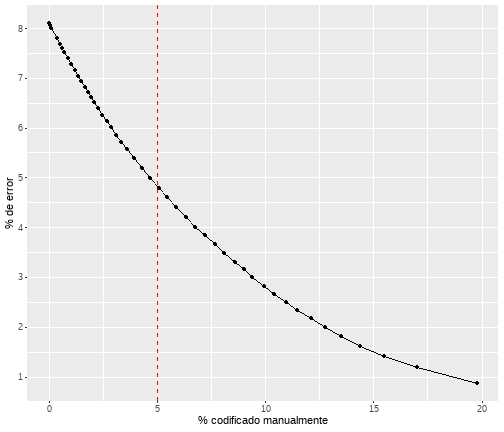
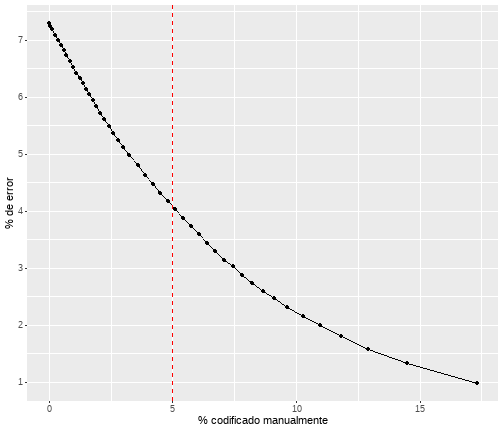
corregir predicción en ccif

diff --git a/index.html b/index.html
@@ -23,7 +23,7 @@ class: center, middle
 
 ## Experiencia codificación automática INE Chile
 
-## Proyecto Estratégico Servicios Compartidos para la Producción Estadística
+## NOMBRE OFICIAL DE LA INSTANCIA DE CONVERSACIÓN
 
 ### Diciembre 2020
 
@@ -98,9 +98,13 @@ background-position: 100% 0%
 
 Contamos con clasificadores para esta tarea
 - CIUO
-- CAENES
+- CAENES 
 - CIIU
 - CCIF
+
+--
+
+## Permiten ordenar jerárquicamente distintos fenónemos 
 
 --
 
@@ -458,18 +462,18 @@ Varias alternativas:
 
 
 ```
-##                  [,1]       [,2]        [,3]       [,4]        [,5]
-## extraccion -0.3638150 -0.1507724 -0.27436318 -0.2040379  0.48672020
-## produccion  0.8918629 -0.3776932  0.03513418  0.1283622 -0.08799397
-## cobre      -0.2807619 -0.1933830  0.34020962  0.5319234 -0.67546623
+##                  [,1]       [,2]        [,3]       [,4]       [,5]
+## extraccion  0.4936821 -0.8025441 -0.96595930  0.6986649 -0.9949005
+## produccion -0.9385707  0.4879618  0.36060880 -0.7660559  0.4100105
+## cobre      -0.2542729 -0.7690925 -0.08408492 -0.5610227  0.9489904
 ```
 
 ```
-## [1] -0.3638150 -0.3776932 -0.2743632 -0.2040379 -0.6754662
+## [1] -0.9385707 -0.8025441 -0.9659593 -0.7660559 -0.9949005
 ```
 
 ```
-## [1]  0.8918629 -0.1507724  0.3402096  0.5319234  0.4867202
+## [1] 0.4936821 0.4879618 0.3606088 0.6986649 0.9489904
 ```
 
 --
@@ -600,7 +604,7 @@ background-position: 100% 0%
 
 &lt;img src="presentacion_cepal_files/figure-html/unnamed-chunk-5-1.png" style="display: block; margin: auto;" /&gt;
 
-### Si clasificamos el 5% a mano, mejoramos aproximadamente 3 pp
+### Si clasificamos el 5% a mano, mejoramos más de 3 pp
 
 ---
 background-image: url("imagenes/fondo2.PNG")
@@ -655,7 +659,7 @@ Analizamos los registros de actividad económica a lo largo de varios meses
 
 
 .center[
-&lt;img src="imagenes/palabras_glosa.png" width="400" /&gt;
+&lt;img src="imagenes/palabras_glosa.png" width="600" /&gt;
 ]
 
 --
@@ -670,9 +674,10 @@ background-position: 100% 0%
 # Cambios en el registro
 
 .center[
-&lt;img src="imagenes/riqueza_lexica.png" width="400" /&gt;
+&lt;img src="imagenes/riqueza_lexica.png" width="600" /&gt;
 ]
 
+## Menor variedad de palabras
 
 ---
 background-image: url("imagenes/fondo2.PNG")
@@ -682,19 +687,18 @@ background-position: 100% 0%
 # Cambios en el registro
 
 .center[
-&lt;img src="imagenes/largo_palabras.png" width="400" /&gt;
+&lt;img src="imagenes/largo_palabras.png" width="600" /&gt;
 ]
 
+## Palabras más largas
+
 ---
-
-
 background-image: url("imagenes/fondo2.PNG")
 background-size: contain;
 background-position: 100% 0%
 
 # Cambios en el registro
 
---
 
 - Glosas más cortas
 

diff --git a/presentacion_cepal.html b/presentacion_cepal.html
@@ -23,7 +23,7 @@ class: center, middle
 
 ## Experiencia codificación automática INE Chile
 
-## Proyecto Estratégico Servicios Compartidos para la Producción Estadística
+## NOMBRE OFICIAL DE LA INSTANCIA DE CONVERSACIÓN
 
 ### Diciembre 2020
 
@@ -98,9 +98,13 @@ background-position: 100% 0%
 
 Contamos con clasificadores para esta tarea
 - CIUO
-- CAENES
+- CAENES 
 - CIIU
 - CCIF
+
+--
+
+## Permiten ordenar jerárquicamente distintos fenónemos 
 
 --
 
@@ -458,18 +462,18 @@ Varias alternativas:
 
 
 ```
-##                  [,1]       [,2]        [,3]       [,4]        [,5]
-## extraccion -0.3638150 -0.1507724 -0.27436318 -0.2040379  0.48672020
-## produccion  0.8918629 -0.3776932  0.03513418  0.1283622 -0.08799397
-## cobre      -0.2807619 -0.1933830  0.34020962  0.5319234 -0.67546623
+##                  [,1]       [,2]        [,3]       [,4]       [,5]
+## extraccion  0.4936821 -0.8025441 -0.96595930  0.6986649 -0.9949005
+## produccion -0.9385707  0.4879618  0.36060880 -0.7660559  0.4100105
+## cobre      -0.2542729 -0.7690925 -0.08408492 -0.5610227  0.9489904
 ```
 
 ```
-## [1] -0.3638150 -0.3776932 -0.2743632 -0.2040379 -0.6754662
+## [1] -0.9385707 -0.8025441 -0.9659593 -0.7660559 -0.9949005
 ```
 
 ```
-## [1]  0.8918629 -0.1507724  0.3402096  0.5319234  0.4867202
+## [1] 0.4936821 0.4879618 0.3606088 0.6986649 0.9489904
 ```
 
 --
@@ -600,7 +604,7 @@ background-position: 100% 0%
 
 &lt;img src="presentacion_cepal_files/figure-html/unnamed-chunk-5-1.png" style="display: block; margin: auto;" /&gt;
 
-### Si clasificamos el 5% a mano, mejoramos aproximadamente 3 pp
+### Si clasificamos el 5% a mano, mejoramos más de 3 pp
 
 ---
 background-image: url("imagenes/fondo2.PNG")
@@ -655,7 +659,7 @@ Analizamos los registros de actividad económica a lo largo de varios meses
 
 
 .center[
-&lt;img src="imagenes/palabras_glosa.png" width="400" /&gt;
+&lt;img src="imagenes/palabras_glosa.png" width="600" /&gt;
 ]
 
 --
@@ -670,9 +674,10 @@ background-position: 100% 0%
 # Cambios en el registro
 
 .center[
-&lt;img src="imagenes/riqueza_lexica.png" width="400" /&gt;
+&lt;img src="imagenes/riqueza_lexica.png" width="600" /&gt;
 ]
 
+## Menor variedad de palabras
 
 ---
 background-image: url("imagenes/fondo2.PNG")
@@ -682,19 +687,18 @@ background-position: 100% 0%
 # Cambios en el registro
 
 .center[
-&lt;img src="imagenes/largo_palabras.png" width="400" /&gt;
+&lt;img src="imagenes/largo_palabras.png" width="600" /&gt;
 ]
 
+## Palabras más largas
+
 ---
-
-
 background-image: url("imagenes/fondo2.PNG")
 background-size: contain;
 background-position: 100% 0%
 
 # Cambios en el registro
 
---
 
 - Glosas más cortas
 
